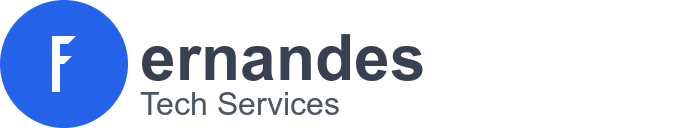
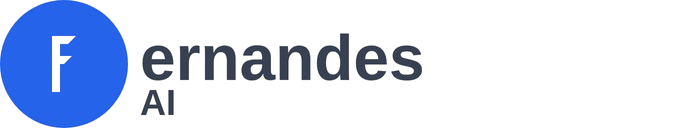
Fernandes AI

Changed region(s): [[0.21, 0.25, 0.6, 0.6562], [0.18, 0.6875, 0.51, 0.9062], [0.06, 0.9688, 0.12, 1.0]]

diff --git a/index.html b/index.html
@@ -3,7 +3,7 @@
   <head>
     <meta charset="UTF-8" />
     <meta name="viewport" content="width=device-width, initial-scale=1.0" />
-    <title>Fernandes Tech Services</title>
+    <title>FernandesAI</title>
     <link rel="apple-touch-icon" sizes="180x180" href="/apple-touch-icon.png">
     <link rel="icon" type="image/png" sizes="32x32" href="/favicon-32x32.png">
     <link rel="icon" type="image/png" sizes="16x16" href="/favicon-16x16.png">
